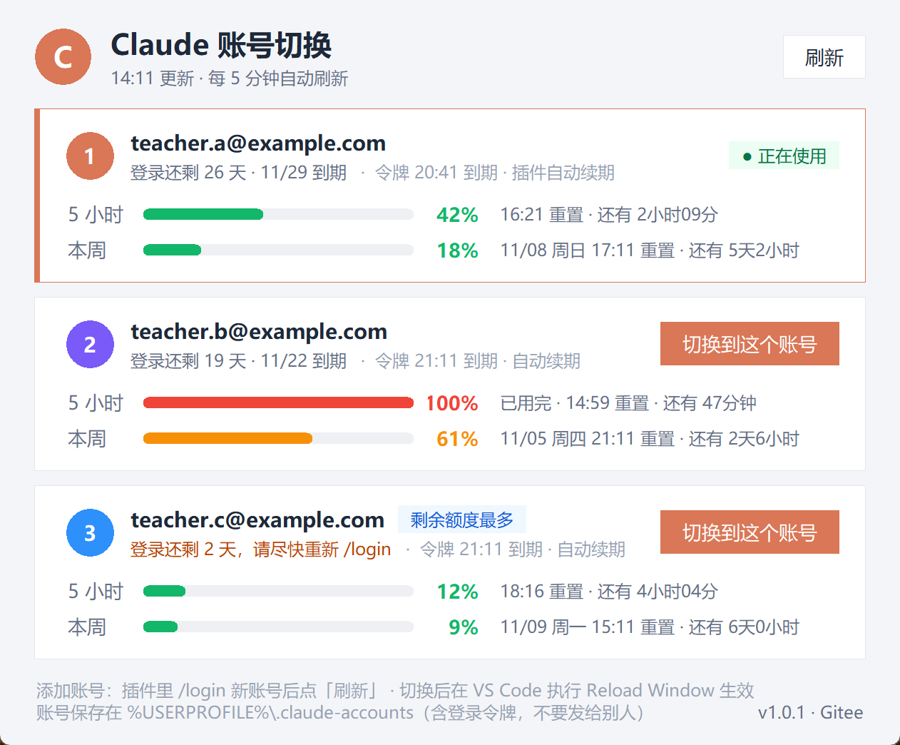
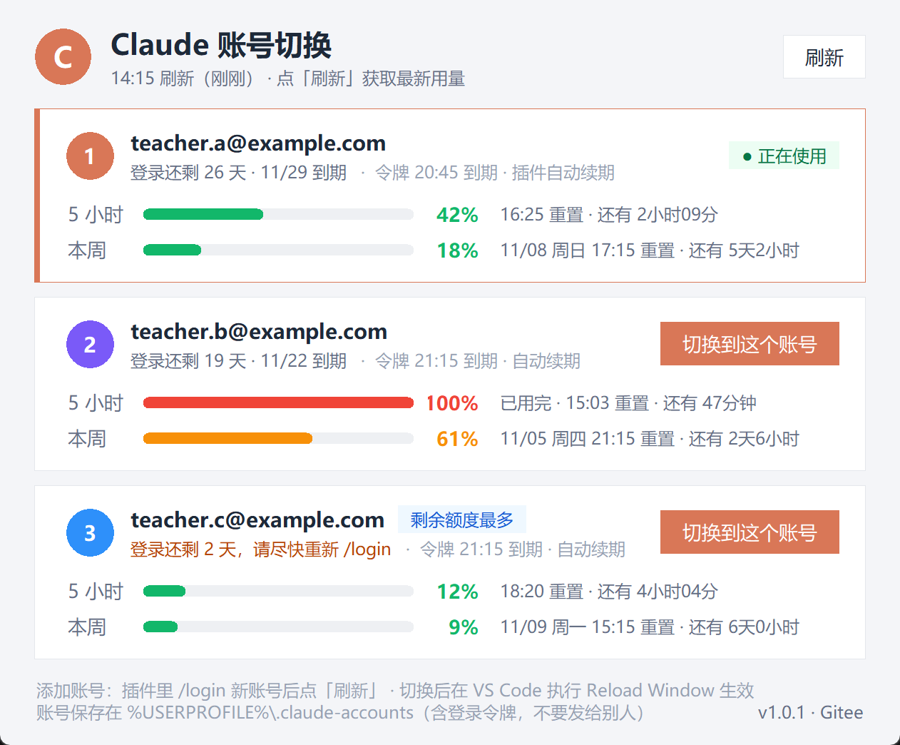
去掉自动刷新，改为手动刷新并显示上次刷新时间
- 打开时查询一次，之后只有点「刷新」才联网
- 标题下显示「14:12 刷新（25分钟前）」；每分钟只在本地更新这句和倒计时，不发请求
- README / 使用说明同步

diff --git a/README.md b/README.md
@@ -11,7 +11,7 @@
 - **一键切换**：点「切换到这个账号」，再在 VS Code 里执行 `Developer: Reload Window` 就生效。
 - **用量一目了然**：每个账号的 5 小时 / 本周用量进度条、重置时间和剩余时长；自动标出「剩余额度最多」的账号。
 - **登录状态**：登录（约 4 周有效）还剩几天，快到期时变色提醒；短期令牌（约 8 小时）自动续期。
-- **自动刷新**：窗口开着时每 5 分钟刷新一次；查询失败或被限流时显示上次的数据。
+- **手动刷新**：打开窗口时查询一次，之后点「刷新」才重新查询，不在后台反复请求；标题下显示上次刷新时间。查询失败或被限流时显示上次的数据。
 - **单个 exe**：约 12 MB，不用装 Python，第一次运行在桌面建快捷方式。
 
 ## 下载使用
